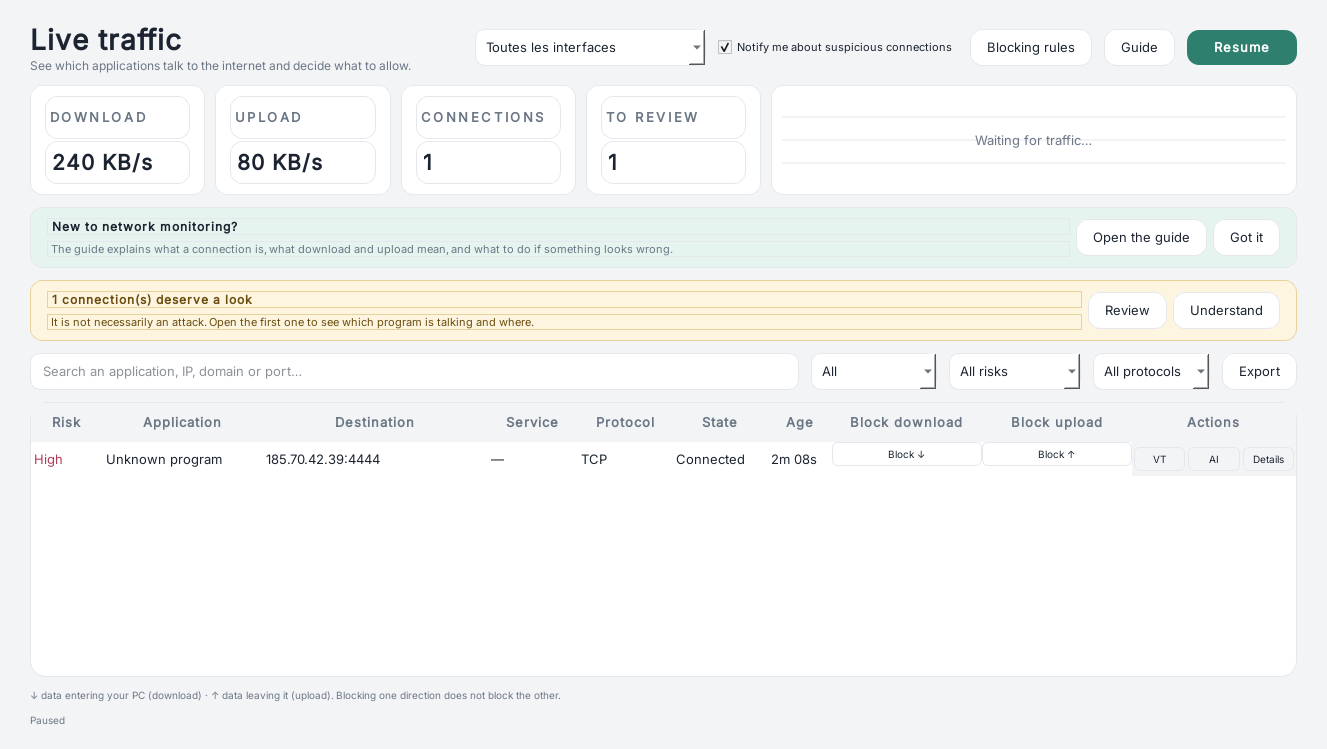
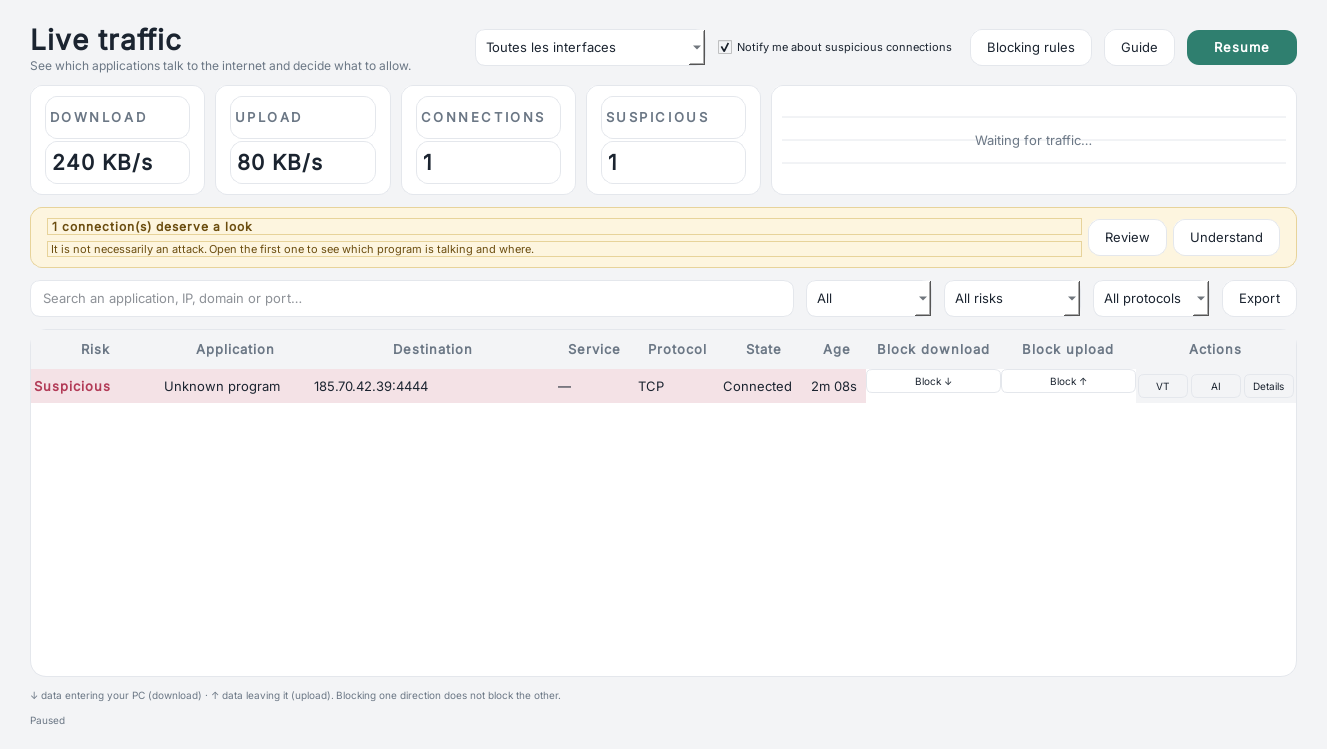
Preserve live traffic scroll position and highlight suspicious rows
- Restore the table's vertical and horizontal scroll positions after every
  refresh, so incoming connections no longer send the analyst back to the top.
- Tint suspicious rows (amber for review, red for high risk), make the risk
  label bold and show it as "Suspicious", with the reasons in the tooltip.
- Keep the compact risk label to avoid wrapping and align the statistic tile
  and filter wording with "Suspicious".
- Disable table word wrap: long application names are elided with a tooltip,
  keeping every row on a single line.
- Add regression tests for scroll preservation and row tinting/labelling
  (158 tests total, 1 skipped).

diff --git a/utils/i18n.py b/utils/i18n.py
@@ -294,14 +294,14 @@ CATALOG: Dict[str, Dict[str, str]] = {
         "traffic.stat.down": "Download",
         "traffic.stat.up": "Upload",
         "traffic.stat.connections": "Connections",
-        "traffic.stat.review": "To review",
+        "traffic.stat.review": "Suspicious",
         "traffic.search": "Search an application, IP, domain or port…",
         "traffic.scope.all": "All",
         "traffic.scope.external": "Internet",
         "traffic.scope.local": "Local network",
         "traffic.scope.listening": "Listening",
         "traffic.risk.all": "All risks",
-        "traffic.risk.review": "To review only",
+        "traffic.risk.review": "Suspicious only",
         "traffic.proto.all": "All protocols",
         "traffic.col.risk": "Risk",
         "traffic.col.app": "Application",
@@ -347,8 +347,8 @@ CATALOG: Dict[str, Dict[str, str]] = {
         "traffic.reason.user_writable": "Program runs from a user-writable folder",
         "traffic.reason.unknown_process": "Program could not be identified",
         "traffic.reason.exposed_listener": "Service listening on all interfaces",
-        "traffic.risk.high": "High",
-        "traffic.risk.medium": "To review",
+        "traffic.risk.high": "Suspicious",
+        "traffic.risk.medium": "Suspicious",
         "traffic.risk.info": "Normal",
         "traffic.detail.title": "Connection details",
         "traffic.detail.who": "Who is talking?",
@@ -402,6 +402,9 @@ CATALOG: Dict[str, Dict[str, str]] = {
         "traffic.rules.col.address": "Address",
         "traffic.rules.col.port": "Port",
         "traffic.rules.col.protocol": "Protocol",
+        "traffic.detail.risk_high": "High risk",
+        "traffic.detail.risk_medium": "Suspicious",
+        "traffic.detail.risk_info": "Normal",
         "canary.title": "Ransomware canaries",
         "canary.intro": (
             "Decoy documents are placed in the folders ransomware encrypts first. "
@@ -733,14 +736,14 @@ CATALOG: Dict[str, Dict[str, str]] = {
         "traffic.stat.down": "Téléchargement",
         "traffic.stat.up": "Envoi",
         "traffic.stat.connections": "Connexions",
-        "traffic.stat.review": "À vérifier",
+        "traffic.stat.review": "Suspectes",
         "traffic.search": "Rechercher une application, une IP, un domaine ou un port…",
         "traffic.scope.all": "Toutes",
         "traffic.scope.external": "Internet",
         "traffic.scope.local": "Réseau local",
         "traffic.scope.listening": "En écoute",
         "traffic.risk.all": "Tous les risques",
-        "traffic.risk.review": "À vérifier uniquement",
+        "traffic.risk.review": "Suspectes uniquement",
         "traffic.proto.all": "Tous les protocoles",
         "traffic.col.risk": "Risque",
         "traffic.col.app": "Application",
@@ -786,8 +789,8 @@ CATALOG: Dict[str, Dict[str, str]] = {
         "traffic.reason.user_writable": "Le programme s'exécute depuis un dossier utilisateur",
         "traffic.reason.unknown_process": "Programme non identifié",
         "traffic.reason.exposed_listener": "Service en écoute sur toutes les interfaces",
-        "traffic.risk.high": "Élevé",
-        "traffic.risk.medium": "À vérifier",
+        "traffic.risk.high": "Suspect",
+        "traffic.risk.medium": "Suspect",
         "traffic.risk.info": "Normal",
         "traffic.detail.title": "Détails de la connexion",
         "traffic.detail.who": "Qui communique ?",
@@ -841,6 +844,9 @@ CATALOG: Dict[str, Dict[str, str]] = {
         "traffic.rules.col.address": "Adresse",
         "traffic.rules.col.port": "Port",
         "traffic.rules.col.protocol": "Protocole",
+        "traffic.detail.risk_high": "Risque élevé",
+        "traffic.detail.risk_medium": "Suspect",
+        "traffic.detail.risk_info": "Normal",
         "canary.title": "Canaris anti-rançongiciel",
         "canary.intro": (
             "Des documents leurres sont placés dans les dossiers que les rançongiciels "

diff --git a/tests/test_live_traffic.py b/tests/test_live_traffic.py
@@ -66,6 +66,21 @@ class FakeProcess:
         return FakeIO()
 
 
+
+def make_connection(index: int, risk: str = "info", reasons=None):
+    from core.live_traffic import ConnectionView
+    return ConnectionView(
+        key=f"k{index}", pid=100 + index, app=f"app{index}.exe",
+        exe=r"C:\Program Files\app.exe", username="bob",
+        ppid=4, parent="explorer.exe", cmdline="app.exe", started="",
+        local_ip="192.168.1.10", local_port=50000 + index,
+        remote_ip=f"8.8.4.{index % 200 + 1}", remote_port=443,
+        protocol="TCP", state="ESTABLISHED", family="IPv4",
+        domain="", service="HTTPS", age=10, first_seen=0,
+        is_public=True, is_lan=False, risk=risk, reasons=reasons or [],
+    )
+
+
 class LiveTrafficTests(unittest.TestCase):
     def setUp(self):
         self.tmp = ROOT / "tests" / "_tmp_live"
@@ -237,6 +252,71 @@ class TrafficUiTests(unittest.TestCase):
         dialog = TrafficGuideDialog(LIGHT)
         dialog.show()
         dialog.close()
+
+
+    def test_scroll_position_survives_refresh(self):
+        from ui.studio import LIGHT
+        from ui.traffic import TrafficPage
+        from core.live_traffic import TrafficSnapshot
+        shell = SimpleNamespace(tray=None)
+        page = TrafficPage(LIGHT, shell)
+        try:
+            page.resize(1100, 700)
+            page.show()
+            self.app.processEvents()
+            page.shutdown()
+            page.running = False
+            connections = [make_connection(i) for i in range(120)]
+            snapshot = TrafficSnapshot(
+                connections=connections, download_bps=0, upload_bps=0,
+                total_download=0, total_upload=0, adapter="",
+                adapters=[], timestamp=0, suspicious=0,
+            )
+            page.snapshot_data = snapshot
+            page._last_keys = None
+            page._refresh_table(snapshot)
+            self.app.processEvents()
+            page.table.verticalScrollBar().setValue(12)
+            self.app.processEvents()
+            connections.append(make_connection(999, "high", ["suspicious_port"]))
+            page._last_keys = None
+            page._refresh_table(page.snapshot_data)
+            self.app.processEvents()
+            self.assertEqual(page.table.verticalScrollBar().value(), 12)
+        finally:
+            page.close()
+
+    def test_suspicious_rows_are_tinted_and_labelled(self):
+        from ui.studio import LIGHT
+        from ui.traffic import TrafficPage
+        from core.live_traffic import TrafficSnapshot
+        shell = SimpleNamespace(tray=None)
+        page = TrafficPage(LIGHT, shell)
+        try:
+            page.resize(1100, 700)
+            page.show()
+            self.app.processEvents()
+            page.shutdown()
+            page.running = False
+            suspicious = make_connection(1, "high", ["suspicious_port"])
+            normal = make_connection(2)
+            snapshot = TrafficSnapshot(
+                connections=[suspicious, normal], download_bps=0, upload_bps=0,
+                total_download=0, total_upload=0, adapter="", adapters=[],
+                timestamp=0, suspicious=1,
+            )
+            page.snapshot_data = snapshot
+            page._last_keys = None
+            page._refresh_table(snapshot)
+            self.app.processEvents()
+            risk = page.table.item(0, 0)
+            self.assertIn("Suspicious", risk.text())
+            self.assertTrue(risk.font().bold())
+            self.assertIsNotNone(risk.background())
+            self.assertGreater(risk.background().color().alpha(), 0)
+            self.assertFalse(page.table.item(1, 0).font().bold())
+        finally:
+            page.close()
 
     def test_finding_dialog_initial_tab(self):
         from ui.studio import LIGHT

diff --git a/ui/traffic.py b/ui/traffic.py
@@ -231,7 +231,11 @@ class ConnectionDetailDialog(QDialog):
         title = QLabel(app_label(conn))
         title.setStyleSheet("font-size: 22px; font-weight: 700;")
         head.addWidget(title)
-        risk = QLabel(tr(RISK_LABELS.get(conn.risk, "traffic.risk.info")))
+        risk_key = {
+            "high": "traffic.detail.risk_high",
+            "medium": "traffic.detail.risk_medium",
+        }.get(conn.risk, "traffic.detail.risk_info")
+        risk = QLabel(tr(risk_key))
         colour = {"high": t["critical"], "medium": t["medium"], "info": t["accent"]}[conn.risk]
         risk.setStyleSheet(
             f"background: {colour}22; color: {colour}; border-radius: 9px;"
@@ -698,8 +702,8 @@ class TrafficPage(QWidget):
         header_view.setSectionResizeMode(QHeaderView.Fixed)
         header_view.setSectionResizeMode(2, QHeaderView.Stretch)
         for column, width in {
-            0: 72, 1: 160, 3: 90, 4: 95, 5: 95, 6: 64,
-            7: 150, 8: 150, 9: 164,
+            0: 130, 1: 150, 3: 80, 4: 85, 5: 88, 6: 58,
+            7: 135, 8: 135, 9: 160,
         }.items():
             self.table.setColumnWidth(column, width)
         self.table.verticalHeader().setVisible(False)
@@ -707,6 +711,7 @@ class TrafficPage(QWidget):
         self.table.setEditTriggers(QTableWidget.NoEditTriggers)
         self.table.setSelectionBehavior(QTableWidget.SelectRows)
         self.table.setShowGrid(False)
+        self.table.setWordWrap(False)
         self.table.doubleClicked.connect(self._open_selected)
         root.addWidget(self.table, 1)
 
@@ -833,6 +838,10 @@ class TrafficPage(QWidget):
         if 0 <= selected < self.table.rowCount():
             item = self.table.item(selected, 2)
             selected_key = item.data(Qt.UserRole) if item else None
+        # Rebuilding the grid used to jump back to the first row on every new
+        # connection.  Remember where the analyst was and restore it afterwards.
+        scroll_y = self.table.verticalScrollBar().value()
+        scroll_x = self.table.horizontalScrollBar().value()
 
         self.table.setUpdatesEnabled(False)
         self.table.setRowCount(0)
@@ -897,6 +906,7 @@ class TrafficPage(QWidget):
             self.table.setCellWidget(row, 9, actions)
             self.table.setRowHeight(row, 34)
 
+            self._tint_row(row, conn)
             self._row_meta[conn.key] = {
                 "conn": conn, "risk": risk_item, "age": age, "dest": destination,
                 "down": down_btn, "up": up_btn,
@@ -909,11 +919,26 @@ class TrafficPage(QWidget):
                     self.table.selectRow(row)
                     break
         self.table.setUpdatesEnabled(True)
+        self.table.verticalScrollBar().setValue(scroll_y)
+        self.table.horizontalScrollBar().setValue(scroll_x)
         self._update_empty()
 
     def _apply_risk(self, item: QTableWidgetItem, conn: ConnectionView):
         item.setText(tr(RISK_LABELS.get(conn.risk, "traffic.risk.info")))
         item.setToolTip("\n".join(tr("traffic.reason." + reason) for reason in conn.reasons))
+        font = item.font()
+        font.setBold(conn.risk != "info")
+        item.setFont(font)
+
+    def _tint_row(self, row: int, conn: ConnectionView):
+        if conn.risk == "info":
+            return
+        tint = QColor(self.t["critical"] if conn.risk == "high" else self.t["medium"])
+        tint.setAlpha(38 if conn.risk == "high" else 26)
+        for column in range(self.table.columnCount()):
+            cell = self.table.item(row, column)
+            if cell is not None:
+                cell.setBackground(tint)
 
     def _block_button(self, conn: ConnectionView, direction: str) -> QPushButton:
         blocked = self.firewall.is_blocked(

diff --git a/docs/USER_GUIDE.md b/docs/USER_GUIDE.md
@@ -155,7 +155,7 @@ network adapter at the top (or *Toutes les interfaces*), and use **Pause** /
 
 - **Download / Upload** — current throughput of the selected adapter.
 - **Connections** — active connections and listening services.
-- **To review** — connections that match a risk hint.
+- **Suspicious** — connections that match a risk hint (highlighted row).
 - A live chart of the last minute of traffic.
 - A table with the application, remote endpoint, service, protocol, state and
   age of each connection.
@@ -168,7 +168,7 @@ The risk labels are deliberately calm:
 | Label | Meaning |
 |---|---|
 | **Normal** | Nothing specific stands out |
-| **To review** | A hint exists (dangerous port, temporary folder, unknown program, blocklist) |
+| **Suspicious** | A hint exists (dangerous port, temporary folder, unknown program, blocklist); the row is tinted |
 | **High** | Your IP blocklist or a dangerous remote port matched |
 
 A flag is a question, not a verdict.
@@ -177,7 +177,7 @@ A flag is a question, not a verdict.
 
 A banner appears: *"N connections deserve a look"*, with two actions:
 
-- **Review** opens the first flagged connection.
+- **Review** (*Examiner*) opens the first flagged connection.
 - **Understand** opens the four-step guide.
 
 The connection panel explains:

diff --git a/README.md b/README.md
@@ -1,4 +1,4 @@
-# CyberGuardian
+# CyberGuardian
 
 <div align="center">
 
@@ -10,7 +10,7 @@
 [![Python](https://img.shields.io/badge/Python-3.9%2B-3776AB?style=flat-square&logo=python&logoColor=white)](https://www.python.org/)
 [![Platform](https://img.shields.io/badge/Windows-10%20%2F%2011-0078D4?style=flat-square&logo=windows&logoColor=white)](https://www.microsoft.com/windows)
 [![License](https://img.shields.io/badge/license-MIT-2f7f6f?style=flat-square)](LICENSE)
-[![Tests](https://img.shields.io/badge/tests-156%20passing-2f7f6f?style=flat-square)](tests/)
+[![Tests](https://img.shields.io/badge/tests-158%20passing-2f7f6f?style=flat-square)](tests/)
 [![Language](https://img.shields.io/badge/UI-English%20%7C%20Fran%C3%A7ais-6b7785?style=flat-square)](#languages)
 
 **Designed & architected by [Souhaieb Marzouk](https://github.com/Souhaieb-Marzouk)**

diff --git a/CHANGELOG.md b/CHANGELOG.md
@@ -28,6 +28,14 @@ This project follows [Semantic Versioning](https://semver.org/).
 - **Capture report export** — export the current connection snapshot as CSV or
   JSON.
 
+### Fixed
+
+- The live traffic table no longer jumps back to the first row when new
+  connections arrive: the vertical and horizontal scroll positions are restored
+  after every refresh.
+- Suspicious connections are now tinted (amber/red) and labelled **Suspicious**
+  in the risk column, with a bold label and the reasons in the tooltip.
+
 ### Changed
 
 - `APP_VERSION`/`build.py` bumped to 1.6.0.

diff --git a/docs/ARCHITECTURE.md b/docs/ARCHITECTURE.md
@@ -1,4 +1,4 @@
-# Architecture
+# Architecture
 
 CyberGuardian is a local Windows security workstation built around a small scanner
 contract, a shared evidence model and a Qt interface that never blocks on I/O.
@@ -198,7 +198,7 @@ old one is closed.
 
 ## Testing
 
-- `tests/` contains 156 unit and headless UI tests.
+- `tests/` contains 158 unit and headless UI tests.
 - Qt runs with `QT_QPA_PLATFORM=offscreen`.
 - `test_ui_buttons.py` clicks every button on the legacy dialog surfaces and fails
   if one raises.

diff --git a/docs/BUILD.md b/docs/BUILD.md
@@ -1,4 +1,4 @@
-# Building CyberGuardian
+# Building CyberGuardian
 
 ## Prerequisites
 
@@ -42,7 +42,7 @@ python -m unittest discover -s tests -t . -v
 
 The suite is headless: Qt runs with the `offscreen` platform. It covers the
 scanners, YARA precision, localisation, exports, VirusTotal parsing, cancellation,
-the Studio UI button sweep and branding. Current status: 156 tests, 1 skipped.
+the Studio UI button sweep and branding. Current status: 158 tests, 1 skipped.
 
 ## Build the portable executable
 
